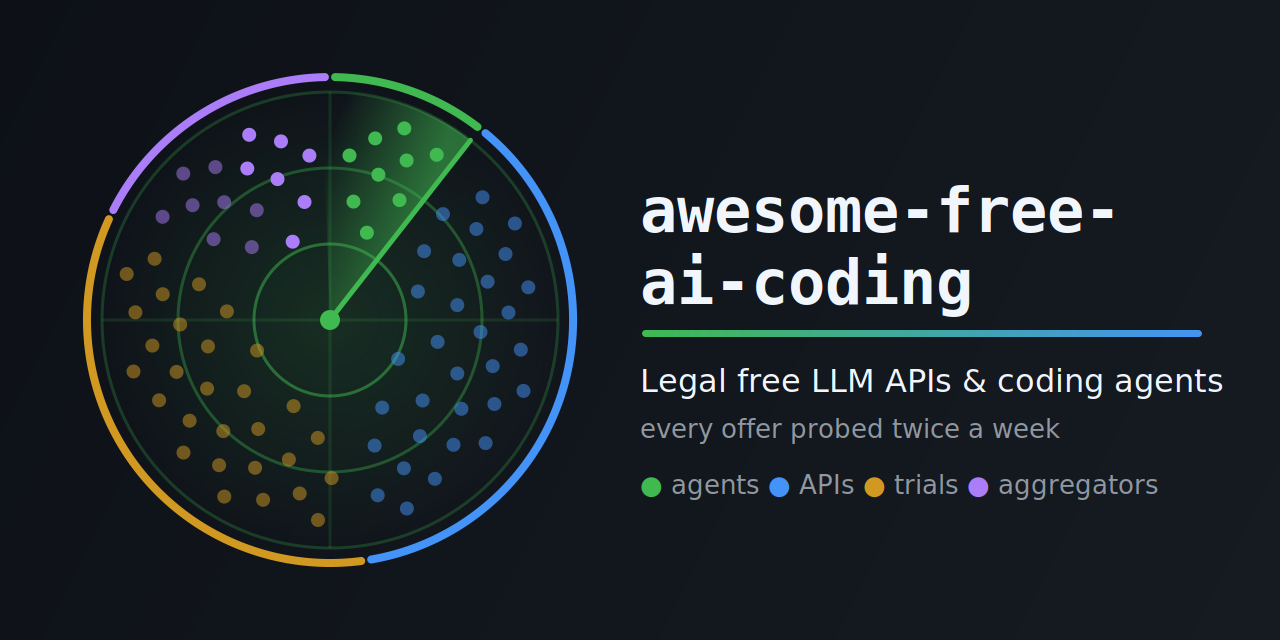
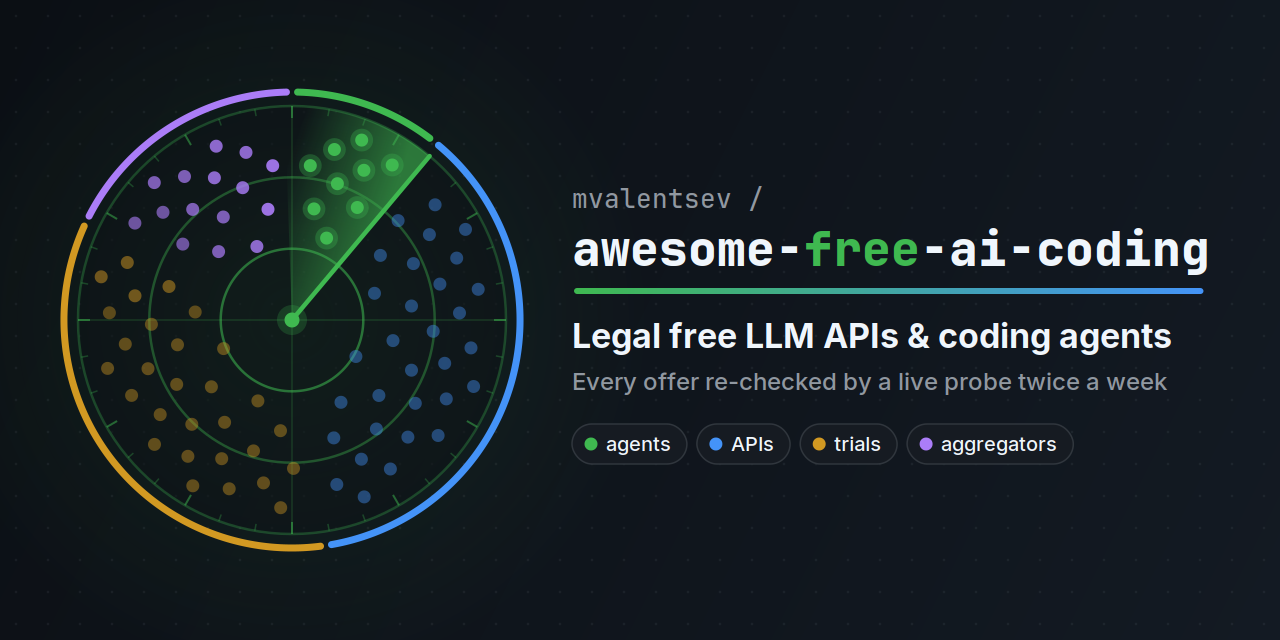
fix: the social preview sets the repository's name on one line, the way a reader types it
The card broke "awesome-free-" from "ai-coding" over two lines, and a name
split at a hyphen reads as two words. It is one line now — JetBrains Mono
ExtraBold at 48px, 634 pixels of the 644 the right half leaves, measured
before drawing — under the owner, GitHub's "mvalentsev /", with *free* in
the list's green and the accent bar the name's own width. The tagline and
the line under it are Inter, the sections are chips with their colours
rather than a row of bullets, and the radar gains its bearing ticks, a lit
sweep with the dots under it haloed and the ones behind it fading, on a
faint dot grid. Still readable at a feed card's 520 pixels.

The fonts are the machine's when cairosvg renders the PNG, so
assets/README.md names them and where they come from: with a fallback the
name no longer fits on one line.

Changed region(s): [[0.0312, 0.0938, 0.9688, 0.9062]]

diff --git a/assets/README.md b/assets/README.md
@@ -22,13 +22,19 @@ less motion (`prefers-reduced-motion`) get no flashing and every contact lit; th
 keeps its slow turn, which CSS cannot stop for a SMIL animation.
 
 The social preview is a still — it is rendered to PNG — and it carries no counts,
-because a number baked into an image is a claim nothing re-verifies.
+because a number baked into an image is a claim nothing re-verifies. It is drawn in
+the README hero's style: the radar's section colours, the repository's name on one
+line in JetBrains Mono with *free* in the list's green, the rest in Inter.
 
 ## Social preview setup (one-time, maintainer)
 
 GitHub has no API for this, so it's a one-click manual step:
 **Settings → General → Social preview → Edit → Upload an image** → pick
-`assets/social-preview.png`. To restyle it later, edit `social-preview.svg` and re-render:
+`assets/social-preview.png`. To restyle it later, edit `social-preview.svg` and re-render.
+The SVG names its fonts, and cairosvg takes them from the machine: install JetBrains Mono
+(Bold, ExtraBold, Medium) and Inter (Regular, Medium, SemiBold) first — both SIL OFL, from
+github.com/JetBrains/JetBrainsMono and github.com/rsms/inter — or a fallback font lays the
+name out wider and it no longer fits on one line:
 
 ```bash
 uvx --from cairosvg cairosvg assets/social-preview.svg -o assets/social-preview.png \
